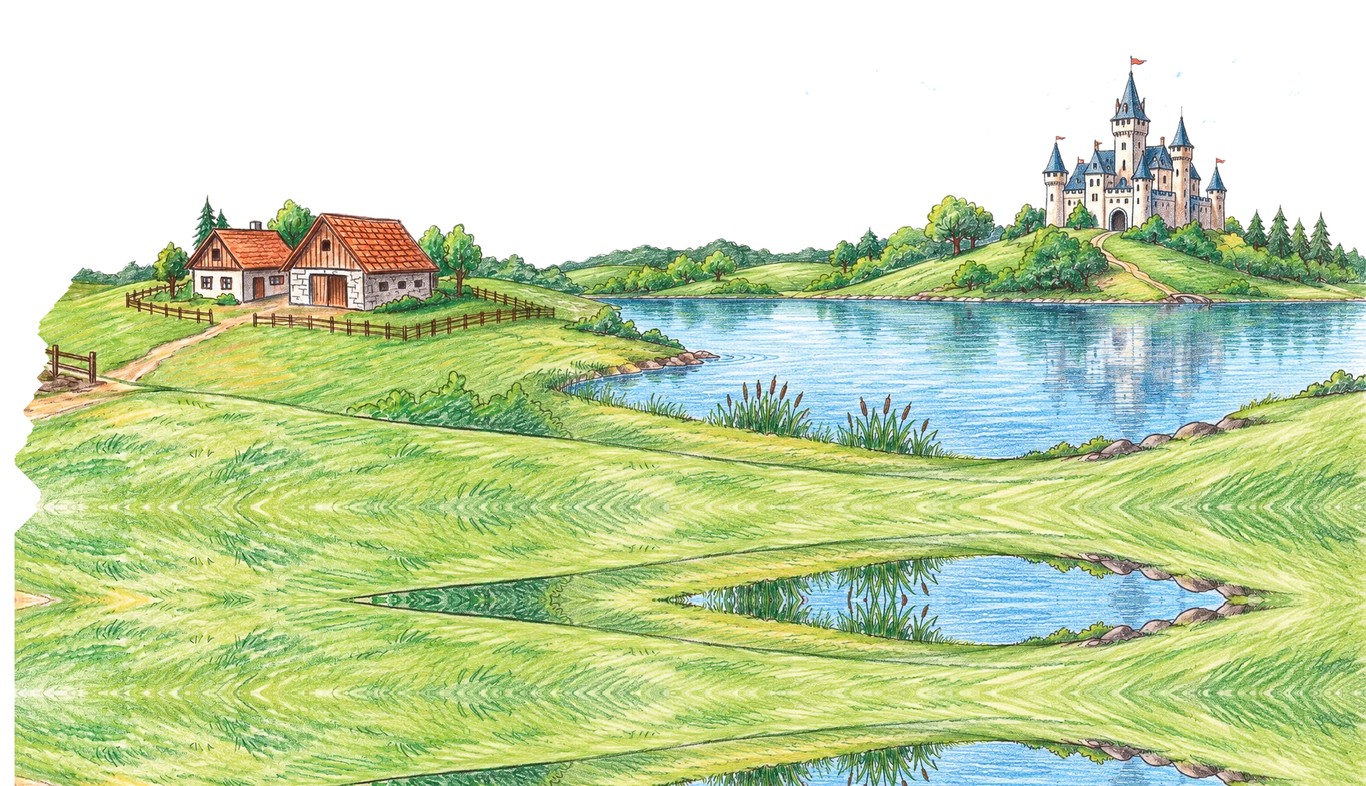
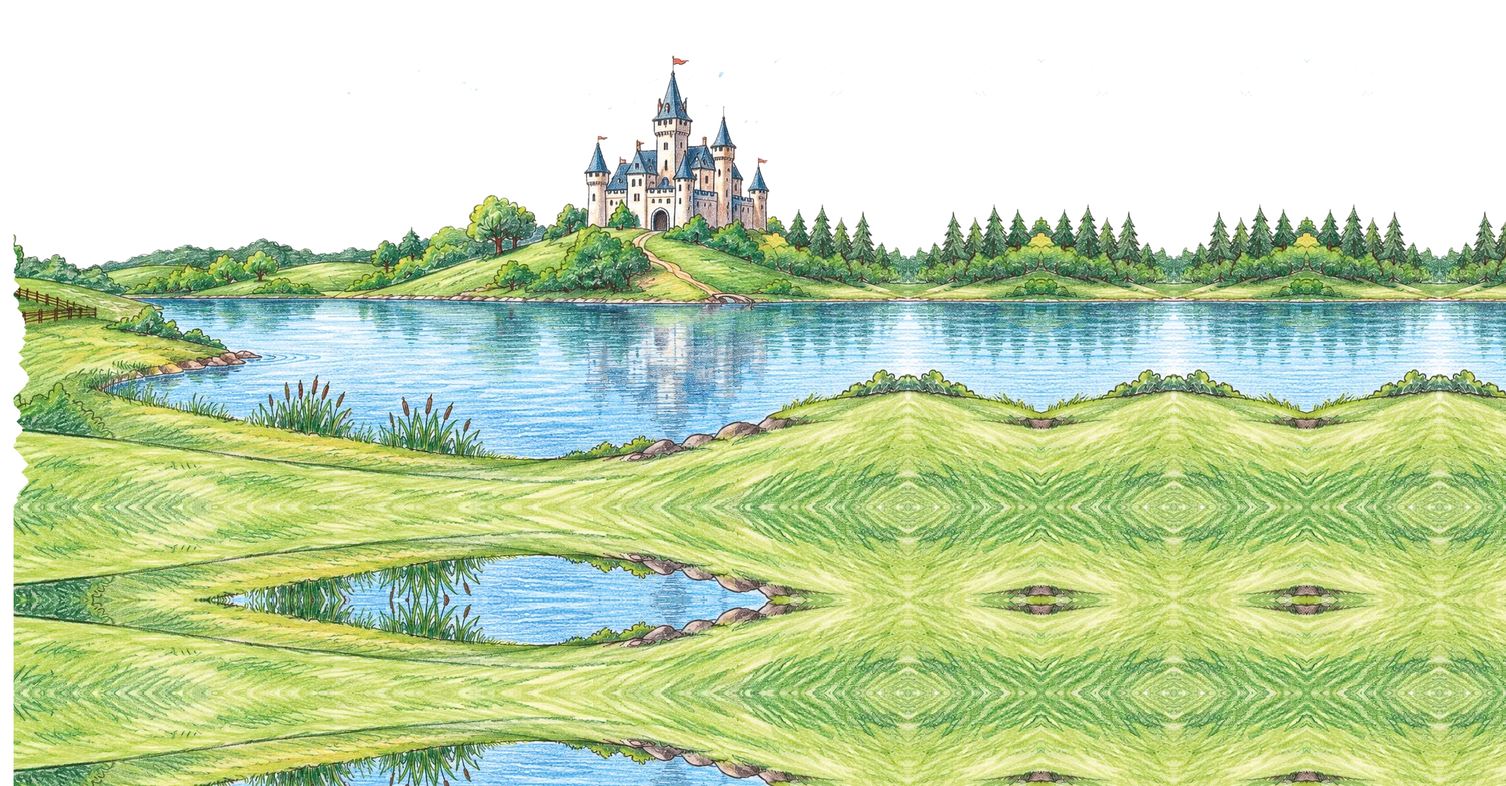
Niveau 3 : raccord sans doublon après la grange ; gros nuages plus petits et plus lents
- la bande du niveau 3 commence après sa propre ferme (plus de deuxième ferme), juste
  à droite de la grange du niveau 2 : la couture ne traverse plus les maisons ;
  sa forêt du bout est prolongée jusqu'à la grande bosse du niveau 4 ;
- gros nuages plus petits ; les deux rangs suivent moins la caméra (0,45 et 0,6).

Claude-Session: https://claude.ai/code/session_018pqLJwER3YsHJdGwSo7QfH

diff --git a/js/nuages.js b/js/nuages.js
@@ -39,8 +39,8 @@ function row(seed, pool, win, gap, y, scale, v) {
 }
 // au loin, puis devant (q : part du mouvement de la caméra que le rang suit)
 const ROWS = [
-  { q: 0.85, list: row(7, ['b1', 'b2', 'b3', 'b4', 'b5'], 3, [560, 900], [60, 360], [0.26, 0.38], 5) },
-  { q: 0.75, list: row(11, ['g0', 'g1', 'g2', 'b0'], 2, [1150, 1600], [-40, 150], [0.7, 0.9], 9) },
+  { q: 0.6, list: row(7, ['b1', 'b2', 'b3', 'b4', 'b5'], 3, [560, 900], [60, 360], [0.26, 0.38], 5) },
+  { q: 0.45, list: row(11, ['g0', 'g1', 'g2', 'b0'], 2, [1150, 1600], [-20, 170], [0.45, 0.6], 9) },
 ];
 const ANCHOR = 1200;
 

diff --git a/tools/decouper-niveau3.py b/tools/decouper-niveau3.py
@@ -22,6 +22,12 @@ FY = P3Y + 645 * PX - 322 * FF
 CH_END = FX + ferme.shape[1] * FF                                   # la bande se raccorde au bord droit de la ferme
 # ---- la bande
 im = np.array(Image.open(src).convert('RGB')).astype(np.float32)
+# la ferme de la bande ferait doublon avec celle du niveau 2 : la bande commence juste après elle
+# (à ses arbres) ; à droite, la forêt du bout est prolongée en miroir
+C0, TAIL, MORE = 690, 200, 900
+end = im[:, -TAIL:]
+tail = np.concatenate([end[:, ::-1], end] * 4, 1)[:, :MORE]          # va-et-vient sur la forêt du bout
+im = np.concatenate([im[:, C0:], tail], 1)
 H, W = im.shape[:2]
 r, g, b = im[..., 0], im[..., 1], im[..., 2]
 skyish = ((im.mean(2) > 222) & (b >= r - 4)).astype(np.uint8)
@@ -41,13 +47,14 @@ pp = np.concatenate([B[::-1], B] * 3, 0)[:EXT]                       # va-et-vie
 ext = np.concatenate([im, pp], 0)
 aext = np.concatenate([a, np.ones((EXT, W), np.float32)], 0)
 # ---- échelle et position : largeur ~2300 monde, la ligne d'horizon sur celle des champs
-S = 2880 / W                                                         # assez large pour que son bout reste
+S = 1.4                                                              # assez large pour que son bout reste
                                                                      # caché derrière la grande bosse du niveau 4
 top_b = np.array([np.argmax(aext[:, x] > 0.5) for x in range(W)])
-hz_b = float(np.median(top_b[int(W * 0.35):int(W * 0.6)]))           # collines lointaines, au milieu
+hz_b = float(np.median(top_b[720 - C0:1234 - C0]))                 # collines lointaines, avant le lac
 top_c = np.array([np.argmax(champs[:, x, 3] > 128) for x in range(champs.shape[1])])
 hz_c = P3Y + (CH_TOP + float(np.median(top_c))) * PX                 # monde
-U0 = CH_END - 320                                                    # la bande commence sous la fin des champs
+BARN = 2062                                                          # bord droit de la grange (image de la ferme)
+U0 = FX + (BARN - 22) * FF                                           # la bande commence juste avant ce bord
 Y0 = hz_c - hz_b * S
 print('horizon champs', round(hz_c), 'bande', hz_b, 'U0', round(U0), 'Y0', round(Y0))
 # ---- couture : dans le recouvrement [U0, CH_END], rendu des deux à l'échelle du monde (1 px = 1 unité)
@@ -65,8 +72,10 @@ diff = np.abs(band_w[..., :3] - ch_w[..., :3]).mean(2) * (np.minimum(band_w[...,
 diff += np.abs(band_w[..., 3] - ch_w[..., 3]) * 0.6
 diff = cv2.GaussianBlur(diff, (0, 0), 2)
 # pas trop près des bords du recouvrement
-edge = np.minimum(np.arange(OV), OV - 1 - np.arange(OV))[None, :]
-diff += np.where(edge < 30, 200.0, 0)
+# la couture passe à droite de la grange (dans les arbres et l'herbe), jamais dans les maisons
+barn_cols = (U0 + np.arange(OV) - FX) / FF < BARN + 4
+diff += np.where(barn_cols[None, :], 1e4, 0)
+diff += np.where((np.arange(OV) > OV - 6)[None, :], 1e4, 0)
 cost = diff.copy(); back = np.zeros(cost.shape, np.int32)
 for y in range(1, Hw):
     prev = cost[y - 1]
